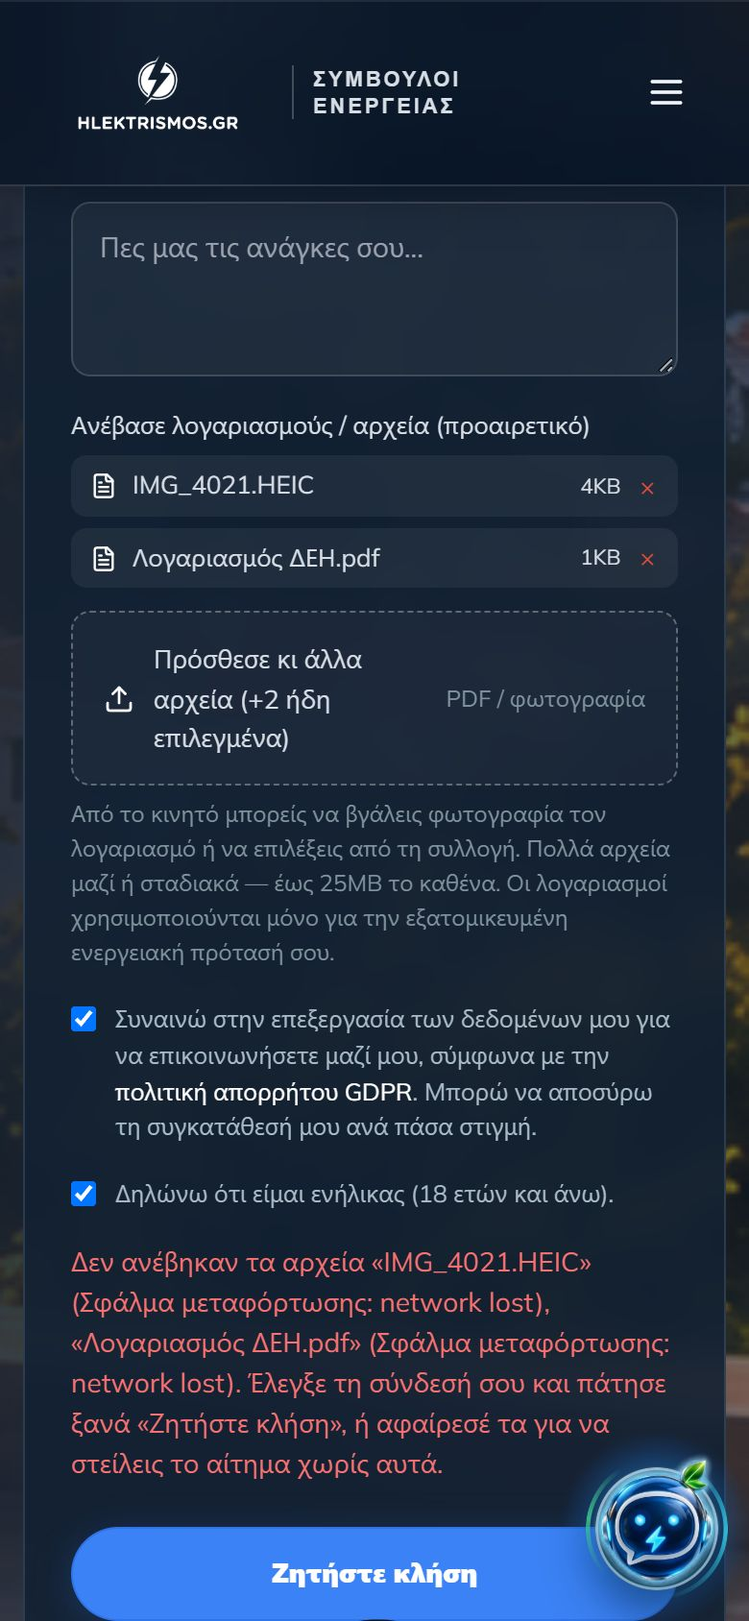
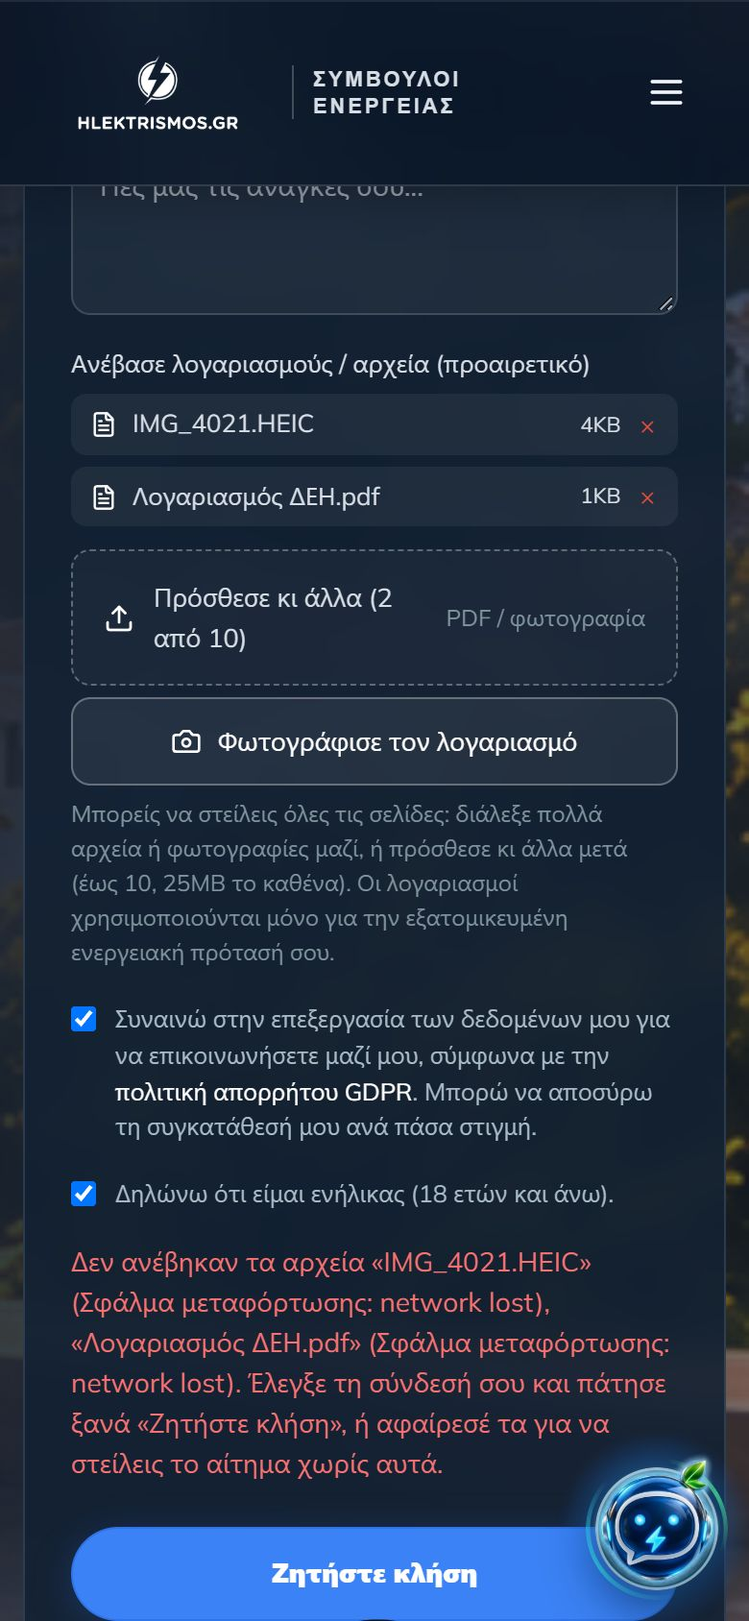
feat(crm): website form files visible on the lead and in case documents; camera + multi-file on the form
- The form stored files in leads.attached_files, which the CRM never read
- Lead details: «Αρχεία από τη φόρμα» with open links (private bucket, signed)
- Case → Έγγραφα: «Αρχεία που έστειλε ο πελάτης», file each under a document
  type without re-upload (case_documents.file_url = hlektrismos_docs/<path>)
- Form: separate camera button on phones, clearer multi-select wording, max 10 files
- UI suite +5 checks (104/104), phone check 20/20, unit +2

diff --git a/src/components/documents/CaseDocuments.tsx b/src/components/documents/CaseDocuments.tsx
@@ -1,13 +1,16 @@
 /* Case documents — "what is this file?" comes FIRST.
    Every upload (file or camera) starts by choosing the document type from the Greek energy-provider catalog
    (lib/documents.ts); only then is the file chosen. A checklist shows the typical documents for this case and
-   what is still missing. Uses the existing upload/insert/verify API; no schema change. */
+   what is still missing. Uses the existing upload/insert/verify API; no schema change.
+   Files the customer attached on the website form are listed too and can be filed under a type without re-upload. */
 
 import { useCallback, useEffect, useMemo, useRef, useState } from 'react';
-import { Camera, Check, FileText, FolderOpen, Plus, Upload, X } from 'lucide-react';
+import { Camera, Check, FileText, FolderOpen, Globe, Plus, Upload, X } from 'lucide-react';
 import { useAuth } from '@/lib/auth';
 import { can, DOC_STATUSES } from '@/lib/roles';
-import { addDocument, fetchDocuments, getDocumentUrl, setDocumentStatus, uploadDocumentFile } from '@/lib/api';
+import { addDocument, fetchDocuments, getDocumentUrl, getLeadFileUrl, setDocumentStatus, uploadDocumentFile } from '@/lib/api';
+import { fileSizeText, leadFileRef, unfiledLeadFiles } from '@/lib/lead-files';
+import type { LeadFile } from '@/lib/lead-files';
 import type { Case, CaseDocument } from '@/lib/api';
 import { buildChecklist, docLabel, DOC_GROUP_LABEL, uploadableDocTypes } from '@/lib/documents';
 import type { DocGroup } from '@/lib/documents';
@@ -21,13 +24,14 @@ const MAX_MB = 15;
 const STATUS_TONE: Record<string, 'green' | 'amber' | 'red' | 'gray'> = { verified: 'green', received: 'amber', rejected: 'red', missing: 'gray' };
 const STATUS_TEXT: Record<string, string> = { verified: 'Ελέγχθηκε', received: 'Παραλήφθηκε', rejected: 'Απορρίφθηκε', missing: 'Λείπει' };
 
-export default function CaseDocuments({ c, onChanged }: { c: Case; onChanged?: () => void }) {
+export default function CaseDocuments({ c, onChanged, leadFiles = [] }: { c: Case; onChanged?: () => void; leadFiles?: LeadFile[] }) {
   const { role } = useAuth();
   const { toast } = useToast();
   const [items, setItems] = useState<CaseDocument[]>([]);
   const [loading, setLoading] = useState(true);
   const [urls, setUrls] = useState<Record<string, string>>({});
-  const [picker, setPicker] = useState<{ open: boolean; type: string; note: string }>({ open: false, type: '', note: '' });
+  const [picker, setPicker] = useState<{ open: boolean; type: string; note: string; fromLead?: LeadFile }>({ open: false, type: '', note: '' });
+  const [leadUrls, setLeadUrls] = useState<Record<string, string>>({});
   const [busy, setBusy] = useState(false);
   const [captureOpen, setCaptureOpen] = useState(false);
   const fileRef = useRef<HTMLInputElement>(null);
@@ -47,10 +51,21 @@ export default function CaseDocuments({ c, onChanged }: { c: Case; onChanged?: (
   }, [c.id]);
   useEffect(() => { void load(); }, [load]);
 
+  const unfiled = useMemo(() => unfiledLeadFiles(leadFiles, items), [leadFiles, items]);
+  useEffect(() => {
+    let alive = true;
+    void (async () => {
+      const r: Record<string, string> = {};
+      for (const f of leadFiles) { const u = await getLeadFileUrl(f.path); if (u) r[f.path] = u; }
+      if (alive) setLeadUrls(r);
+    })();
+    return () => { alive = false; };
+  }, [leadFiles]);
+
   const checklist = useMemo(() => buildChecklist(c, items), [c, items]);
   const missingRequired = checklist.filter(i => i.required && (i.status === 'missing' || i.status === 'rejected')).length;
 
-  const openPicker = (type = '') => setPicker({ open: true, type, note: '' });
+  const openPicker = (type = '', fromLead?: LeadFile) => setPicker({ open: true, type, note: '', fromLead });
   const closePicker = () => { if (!busy) setPicker(p => ({ ...p, open: false })); };
 
   const save = async (file: File) => {
@@ -64,6 +79,20 @@ export default function CaseDocuments({ c, onChanged }: { c: Case; onChanged?: (
     setBusy(false);
     if (!row) { toast('Το έγγραφο δεν αποθηκεύτηκε. Δοκιμάστε ξανά.', 'bad'); return; }
     toast(`Αποθηκεύτηκε: ${docLabel(picker.type)}`, 'ok');
+    setPicker({ open: false, type: '', note: '' });
+    void load();
+    onChanged?.();
+  };
+
+  // File a website attachment under a type: a new case document pointing at the same stored file.
+  const fileLeadAttachment = async () => {
+    const f = picker.fromLead;
+    if (!f || !picker.type) return;
+    setBusy(true);
+    const row = await addDocument(c.id, { category: picker.type, file_name: f.name, file_url: leadFileRef(f.path), mime_type: f.type || undefined, size: f.size || undefined, description: picker.note || 'Από τη φόρμα της ιστοσελίδας' });
+    setBusy(false);
+    if (!row) { toast('Το έγγραφο δεν καταχωρήθηκε. Δοκιμάστε ξανά.', 'bad'); return; }
+    toast(`Καταχωρήθηκε: ${docLabel(picker.type)}`, 'ok');
     setPicker({ open: false, type: '', note: '' });
     void load();
     onChanged?.();
@@ -100,8 +129,37 @@ export default function CaseDocuments({ c, onChanged }: { c: Case; onChanged?: (
             </li>
           ))}
         </ul>
+        {unfiled.length > 0 && (
+          <p className="text-[13px] mt-3 rounded-lg px-3 py-2 bg-brand-50 text-brand-700">
+            Ο πελάτης έστειλε {unfiled.length === 1 ? '1 αρχείο' : `${unfiled.length} αρχεία`} από την ιστοσελίδα — δείτε τα παρακάτω και καταχωρήστε τα στον σωστό τύπο.
+          </p>
+        )}
         <p className="text-xs text-ink/50 mt-3">Ενδεικτική λίστα για παρόχους ενέργειας στην Ελλάδα. Τα ακριβή δικαιολογητικά διαφέρουν ανά πάροχο — επιβεβαιώστε με την αίτηση του παρόχου.</p>
       </Card>
+
+      {leadFiles.length > 0 && (
+        <Card>
+          <CardHeader micro="Από την ιστοσελίδα" title="Αρχεία που έστειλε ο πελάτης"
+            action={<Pill tone={unfiled.length ? 'amber' : 'green'}>{unfiled.length ? `Προς καταχώρηση ${unfiled.length}` : 'Όλα καταχωρήθηκαν'}</Pill>} />
+          <div className="space-y-2">
+            {leadFiles.map(f => {
+              const pending = unfiled.includes(f);
+              return (
+                <div key={f.path} className="flex items-center gap-3 p-3 rounded-xl border border-line bg-white flex-wrap" data-lead-file={f.name}>
+                  <span className="w-8 h-8 rounded-lg bg-brand-50 flex items-center justify-center shrink-0"><Globe className="w-4 h-4 text-brand-600" /></span>
+                  <div className="flex-1 min-w-[180px]">
+                    <div className="text-[14px] font-medium text-ink truncate">{f.name}</div>
+                    <div className="text-xs text-ink/50">{[fileSizeText(f.size), pending ? 'Χωρίς τύπο εγγράφου' : 'Καταχωρήθηκε ως έγγραφο'].filter(Boolean).join(' · ')}</div>
+                    {leadUrls[f.path] ? <a href={leadUrls[f.path]} target="_blank" rel="noreferrer" className="text-xs text-brand-600 hover:underline">Άνοιγμα αρχείου ↗</a>
+                      : <span className="text-xs text-ink/40">Ο σύνδεσμος δεν είναι διαθέσιμος</span>}
+                  </div>
+                  {pending && canAdd && <Btn variant="outline" onClick={() => openPicker('', f)}>Καταχώρηση ως…</Btn>}
+                </div>
+              );
+            })}
+          </div>
+        </Card>
+      )}
 
       <Card>
         <CardHeader micro="Αρχεία" title="Έγγραφα"
@@ -125,7 +183,7 @@ export default function CaseDocuments({ c, onChanged }: { c: Case; onChanged?: (
         </div>
       </Card>
 
-      <Modal open={picker.open} onClose={closePicker} title="Τι έγγραφο ανεβάζετε;" micro="Βήμα 1 από 2" wide>
+      <Modal open={picker.open} onClose={closePicker} title={picker.fromLead ? `Τι έγγραφο είναι το «${picker.fromLead.name}»;` : 'Τι έγγραφο ανεβάζετε;'} micro={picker.fromLead ? 'Αρχείο από την ιστοσελίδα' : 'Βήμα 1 από 2'} wide>
         <div className="space-y-4 max-h-[52vh] overflow-y-auto pr-1" role="radiogroup" aria-label="Τύπος εγγράφου">
           {groups.map(([g, types]) => (
             <div key={g}>
@@ -145,6 +203,14 @@ export default function CaseDocuments({ c, onChanged }: { c: Case; onChanged?: (
         </div>
         <input className="field mt-4" value={picker.note} onChange={e => setPicker(p => ({ ...p, note: e.target.value }))}
           placeholder={picker.type === 'other' ? 'Τι είναι το έγγραφο; (απαιτείται)' : 'Σχόλιο (προαιρετικό)'} aria-label="Σχόλιο εγγράφου" />
+        {picker.fromLead ? (
+          <div className="mt-4 flex items-center justify-end gap-2 flex-wrap">
+            <Btn variant="outline" disabled={busy} onClick={closePicker}><X className="w-3.5 h-3.5" /> Άκυρο</Btn>
+            <Btn disabled={!picker.type || busy || (picker.type === 'other' && !picker.note.trim())} onClick={() => void fileLeadAttachment()}>
+              {busy ? <Spinner /> : <Check className="w-3.5 h-3.5" />} Καταχώρηση
+            </Btn>
+          </div>
+        ) : (
         <div className="mt-4 flex items-center justify-between gap-2 flex-wrap">
           <span className="text-xs text-ink/50">Βήμα 2: επιλέξτε αρχείο (PDF ή εικόνα, έως {MAX_MB} MB) ή φωτογραφίστε.</span>
           <div className="flex gap-2">
@@ -157,6 +223,7 @@ export default function CaseDocuments({ c, onChanged }: { c: Case; onChanged?: (
             </Btn>
           </div>
         </div>
+        )}
         <input ref={fileRef} type="file" accept={ACCEPT} className="hidden"
           onChange={e => { const f = e.target.files?.[0]; e.target.value = ''; if (f) void save(f); }} />
       </Modal>

diff --git a/src/pages/LandingPage.tsx b/src/pages/LandingPage.tsx
@@ -1,10 +1,10 @@
 import { useState, useEffect, useRef, FormEvent, ChangeEvent } from 'react';
 import {
   ArrowRight, Phone, Mail, Home, FileText, Upload, X, Menu,
-  Lock,
+  Lock, Camera,
 } from 'lucide-react';
 import { supabase } from '@/lib/supabase';
-import { classifyUpload, prepareForUpload, PUBLIC_FORM_ACCEPT, PUBLIC_FORM_KINDS } from '@/lib/upload-files';
+import { classifyUpload, MAX_FORM_FILES, prepareForUpload, PUBLIC_FORM_ACCEPT, PUBLIC_FORM_KINDS } from '@/lib/upload-files';
 import { useLenis, scrollToTarget } from '@/hooks/useLenis';
 import LegalLinks from '@/components/LegalLinks';
 
@@ -489,11 +489,16 @@ export default function LandingPage() {
     // keep the valid files and name the ones that were not added.
     const picked = Array.from(files);
     const errors = picked.map((f) => classifyUpload(f, PUBLIC_FORM_KINDS)).filter((c) => !c.ok).map((c) => c.error);
-    const ok = picked.filter((f) => classifyUpload(f, PUBLIC_FORM_KINDS).ok);
+    const valid = picked.filter((f) => classifyUpload(f, PUBLIC_FORM_KINDS).ok);
+    const room = Math.max(0, MAX_FORM_FILES - form.billFiles.length);
+    const ok = valid.slice(0, room);
+    if (valid.length > room) errors.push(`Έως ${MAX_FORM_FILES} αρχεία ανά αίτημα — ${valid.length - room === 1 ? 'ένα δεν προστέθηκε' : `${valid.length - room} δεν προστέθηκαν`}.`);
     setFormError(errors.join(' '));
     if (ok.length) setForm((p) => ({ ...p, billFiles: [...p.billFiles, ...ok] }));
     e.target.value = '';
   };
+
+  const hasCamera = typeof window !== 'undefined' && window.matchMedia?.('(pointer: coarse)').matches;
 
   const removeBillFile = (i: number) => setForm((p) => ({ ...p, billFiles: p.billFiles.filter((_, idx) => idx !== i) }));
 
@@ -807,11 +812,21 @@ export default function LandingPage() {
                       >
                         <Upload size={16} style={{ color: '#fff', flexShrink: 0 }} />
                         <span style={{ flex: 1 }}>
-                          {form.billFiles.length === 0 ? 'Κάνε κλικ και επίλεξε αρχεία' : `Πρόσθεσε κι άλλα αρχεία (+${form.billFiles.length} ήδη επιλεγμένα)`}
+                          {form.billFiles.length === 0 ? 'Επίλεξε αρχεία ή φωτογραφίες — πολλά μαζί' : `Πρόσθεσε κι άλλα (${form.billFiles.length} από ${MAX_FORM_FILES})`}
                         </span>
                         <span style={{ fontSize: 12, color: '#7f939c', flexShrink: 0 }}>PDF / φωτογραφία</span>
                       </label>
-                      <span style={{ fontSize: 12, color: '#7f939c' }}>Από το κινητό μπορείς να βγάλεις φωτογραφία τον λογαριασμό ή να επιλέξεις από τη συλλογή. Πολλά αρχεία μαζί ή σταδιακά — έως 25MB το καθένα. Οι λογαριασμοί χρησιμοποιούνται μόνο για την εξατομικευμένη ενεργειακή πρότασή σου.</span>
+                      {hasCamera && (
+                        <>
+                          <input id="lead-camera-input" type="file" accept="image/*" capture="environment" onChange={handleBillChange} style={{ position: 'absolute', opacity: 0, width: 1, height: 1, overflow: 'hidden', clipPath: 'inset(50%)' }} />
+                          <label htmlFor="lead-camera-input" role="button" tabIndex={0}
+                            onKeyDown={(e) => { if (e.key === 'Enter' || e.key === ' ') { e.preventDefault(); document.getElementById('lead-camera-input')?.click(); } }}
+                            style={{ display: 'flex', alignItems: 'center', justifyContent: 'center', gap: 8, padding: '12px 16px', borderRadius: 10, border: '1px solid rgba(255,255,255,.3)', background: 'rgba(255,255,255,.07)', cursor: 'pointer', fontSize: 13.5, color: '#fff' }}>
+                            <Camera size={16} aria-hidden="true" /> Φωτογράφισε τον λογαριασμό
+                          </label>
+                        </>
+                      )}
+                      <span style={{ fontSize: 12, color: '#7f939c' }}>Μπορείς να στείλεις όλες τις σελίδες: διάλεξε πολλά αρχεία ή φωτογραφίες μαζί, ή πρόσθεσε κι άλλα μετά (έως {MAX_FORM_FILES}, 25MB το καθένα). Οι λογαριασμοί χρησιμοποιούνται μόνο για την εξατομικευμένη ενεργειακή πρότασή σου.</span>
                     </div>
                     <label style={{ display: 'flex', gap: 10, alignItems: 'flex-start', fontSize: 12.5, lineHeight: 1.5, color: '#a9bcc6' }}>
                       <input required type="checkbox" checked={form.consent} onChange={(e) => update('consent', e.target.checked)} style={{ marginTop: 3, flex: 'none' }} />

diff --git a/src/components/leads/LeadDetail.tsx b/src/components/leads/LeadDetail.tsx
@@ -2,12 +2,13 @@
    Uses ONLY existing lead operations: updateLeadStage, convertLeadToCase, updateLead (via the page's edit form).
    Status changes are audited with the existing logAudit helper. Stored status values are never rewritten for display. */
 
-import { useCallback, useEffect, useState } from 'react';
-import { ArrowLeft, Briefcase, Clock, Mail, MapPin, Pencil, Phone, Sparkles } from 'lucide-react';
+import { useCallback, useEffect, useMemo, useState } from 'react';
+import { ArrowLeft, Briefcase, Clock, FileText, Mail, MapPin, Pencil, Phone, Sparkles } from 'lucide-react';
 import { useAuth } from '@/lib/auth';
 import { useNav } from '@/lib/nav';
 import { can, LEAD_STATUSES, leadSourceInfo, SERVICES } from '@/lib/roles';
-import { convertLeadToCase, fetchEntityActivity, fetchLead, logAudit, updateLeadStage } from '@/lib/api';
+import { convertLeadToCase, fetchEntityActivity, fetchLead, getLeadFileUrl, logAudit, updateLeadStage } from '@/lib/api';
+import { fileSizeText, leadFiles } from '@/lib/lead-files';
 import type { ActivityLogRow, Lead } from '@/lib/api';
 import { leadStatusDisplay } from '@/lib/lead-status';
 import { leadNextAction } from '@/lib/lead-next';
@@ -33,6 +34,19 @@ export default function LeadDetail({ leadId, version, onEdit }: { leadId: string
     setActivity(a);
   }, [leadId]);
   useEffect(() => { void load(); }, [load, version]);
+
+  // Files the visitor attached on the website form (private bucket; links are short-lived).
+  const files = useMemo(() => leadFiles(lead?.attached_files), [lead]);
+  const [fileUrls, setFileUrls] = useState<Record<string, string>>({});
+  useEffect(() => {
+    let alive = true;
+    void (async () => {
+      const r: Record<string, string> = {};
+      for (const f of files) { const u = await getLeadFileUrl(f.path); if (u) r[f.path] = u; }
+      if (alive) setFileUrls(r);
+    })();
+    return () => { alive = false; };
+  }, [files]);
 
   if (lead === undefined) return <div className="atx-page"><div className="atx-panel">{[0, 1, 2].map(i => <div key={i} className="atx-skeleton" />)}</div></div>;
   if (lead === null) {
@@ -141,6 +155,29 @@ export default function LeadDetail({ leadId, version, onEdit }: { leadId: string
               ))}
             </dl>
           </div>
+
+          {files.length > 0 && (
+            <div className="atx-panel" style={{ padding: 20 }} aria-label="Αρχεία από τη φόρμα">
+              <h2 className="atx-section-title mb-1">Αρχεία από τη φόρμα ({files.length})</h2>
+              <p className="text-[13px] text-[var(--atx-muted)] mb-3">
+                {lead.converted_case_id ? 'Καταχωρήστε τα ως δικαιολογητικά στο Case → Έγγραφα.' : 'Μετά τη μετατροπή σε Case θα εμφανίζονται στα Έγγραφα, για καταχώρηση ανά τύπο.'}
+              </p>
+              <ul className="m-0 p-0 list-none space-y-2">
+                {files.map(f => (
+                  <li key={f.path} className="flex items-center gap-3 text-[14px]">
+                    <span className="atx-icon" style={{ width: 30, height: 30 }} aria-hidden="true"><FileText size={14} /></span>
+                    <span className="flex-1 min-w-0">
+                      <span className="block font-medium truncate">{f.name}</span>
+                      <span className="block text-[12.5px] text-[var(--atx-muted)]">{fileSizeText(f.size) || '—'}</span>
+                    </span>
+                    {fileUrls[f.path]
+                      ? <a className="atx-btn atx-btn-quiet" href={fileUrls[f.path]} target="_blank" rel="noreferrer">Άνοιγμα</a>
+                      : <span className="text-[12.5px] text-[var(--atx-faint)]">Μη διαθέσιμο</span>}
+                  </li>
+                ))}
+              </ul>
+            </div>
+          )}
 
           <div className="atx-panel" style={{ padding: 20 }}>
             <h2 className="atx-section-title mb-3">Ιστορικό</h2>

diff --git a/src/lib/lead-files.ts b/src/lib/lead-files.ts
@@ -1,0 +1,31 @@
+/* Files a visitor attached on the public contact form. The form stores them in the private `hlektrismos_docs`
+   bucket and lists them on the lead (`leads.attached_files`); the CRM never showed them, so they looked lost.
+   A case document that points to one of these files keeps the bucket in its reference (`hlektrismos_docs/<path>`),
+   so filing it under a document type needs no copy or re-upload. Pure helpers, unit-tested. */
+
+export interface LeadFile { path: string; name: string; type: string; size: number }
+
+export const LEAD_FILES_BUCKET = 'hlektrismos_docs';
+const PREFIX = `${LEAD_FILES_BUCKET}/`;
+
+/** Reference stored in case_documents.file_url for a website file. */
+export const leadFileRef = (path: string) => PREFIX + path;
+/** The website-bucket path, or null when the reference belongs to the normal case-documents bucket. */
+export const leadFilePath = (fileUrl: string | null | undefined) => (fileUrl && fileUrl.startsWith(PREFIX) ? fileUrl.slice(PREFIX.length) : null);
+
+/** Valid entries only: the column is free-form jsonb written by the public form. */
+export function leadFiles(raw: unknown): LeadFile[] {
+  if (!Array.isArray(raw)) return [];
+  return raw
+    .filter((f): f is Record<string, unknown> => !!f && typeof f === 'object' && typeof (f as { path?: unknown }).path === 'string')
+    .map(f => ({ path: String(f.path), name: String(f.name ?? String(f.path).split('/').pop()), type: String(f.type ?? ''), size: Number(f.size) || 0 }));
+}
+
+/** Website files not yet filed as a case document. */
+export function unfiledLeadFiles(files: LeadFile[], docs: { file_url: string | null }[]): LeadFile[] {
+  const filed = new Set(docs.map(d => leadFilePath(d.file_url)).filter(Boolean));
+  return files.filter(f => !filed.has(f.path));
+}
+
+export const fileSizeText = (bytes: number) =>
+  bytes <= 0 ? '' : bytes < 1024 * 1024 ? `${Math.max(1, Math.round(bytes / 1024))} KB` : `${(bytes / 1024 / 1024).toFixed(1)} MB`;

diff --git a/src/components/app/CaseDetailPage.tsx b/src/components/app/CaseDetailPage.tsx
@@ -1,7 +1,8 @@
-import { useCallback, useEffect, useState } from 'react';
+import { useCallback, useEffect, useMemo, useState } from 'react';
 import { useAuth } from '@/lib/auth';
 import { useNav } from '@/lib/nav';
 import CaseDocuments from '@/components/documents/CaseDocuments';
+import { leadFiles as toLeadFiles } from '@/lib/lead-files';
 import { buildChecklist, docLabel } from '@/lib/documents';
 import { stageText } from '@/lib/case-flow';
 import { CaseNextStepCard, CaseProgress, HandoverDialog, StageChangeDialog } from '@/components/cases/CaseOverview';
@@ -575,6 +576,7 @@ export default function CaseDetailPage({ caseId }: { caseId: string }) {
   const { go } = useNav();
   const [c, setC] = useState<Case | null>(null);
   const [lead, setLead] = useState<Lead | null>(null);
+  const websiteFiles = useMemo(() => toLeadFiles(lead?.attached_files), [lead]);
   const [tab, setTab] = useState<'timeline' | 'followups' | 'docs' | 'visits' | 'offers' | 'signatures' | 'backoffice'>('timeline');
   const [stagePending, setStagePending] = useState<Stage | null>(null);
   const [handoverOpen, setHandoverOpen] = useState(false);
@@ -786,7 +788,7 @@ export default function CaseDetailPage({ caseId }: { caseId: string }) {
 
       {tab === 'timeline' && <TimelineTab caseId={c.id} load={reload} />}
       {tab === 'followups' && <FollowUpsTab caseId={c.id} load={reload} />}
-      {tab === 'docs' && <CaseDocuments c={c} onChanged={reload} />}
+      {tab === 'docs' && <CaseDocuments c={c} onChanged={reload} leadFiles={websiteFiles} />}
       {tab === 'visits' && <VisitsTab caseId={c.id} />}
       {tab === 'offers' && <OffersTab caseId={c.id} />}
       {tab === 'signatures' && <SignaturesTab caseId={c.id} />}

diff --git a/src/lib/api.ts b/src/lib/api.ts
@@ -3,6 +3,7 @@ import { applyCanonicalLabels, loadCatalog, resolveProductId, resolveProviderId 
 import { ROLES } from './roles';
 import type { Role, Stage } from './roles';
 import type { MapCoordinate } from './maps/types';
+import { LEAD_FILES_BUCKET, leadFilePath } from './lead-files';
 
 export type Customer = {
   id: string;
@@ -196,6 +197,8 @@ export type Lead = {
   created_at: string;
   created_by?: { full_name: string } | null;
   assigned_to?: { full_name: string } | null;
+  /** Files attached on the public contact form (jsonb; see lib/lead-files). */
+  attached_files?: unknown;
 };
 
 function logError(method: string, err: unknown) {
@@ -691,7 +694,18 @@ export async function uploadDocumentFile(file: File): Promise<{ path: string; na
 export async function getDocumentUrl(path: string): Promise<string | null> {
   if (!supabase || !path) return null;
   if (/^https?:\/\//i.test(path)) return path;
+  // Website files filed as case documents stay in the contact-form bucket (see lib/lead-files).
+  const websitePath = leadFilePath(path);
+  if (websitePath) return getLeadFileUrl(websitePath);
   const { data } = await supabase.storage.from('client_documents').createSignedUrl(path, 3600);
+  return data?.signedUrl ?? null;
+}
+
+/* Short-lived link to a file a visitor attached on the public form (private bucket; staff-only read policy). */
+export async function getLeadFileUrl(path: string): Promise<string | null> {
+  if (!supabase || !path) return null;
+  const { data, error } = await supabase.storage.from(LEAD_FILES_BUCKET).createSignedUrl(path, 3600);
+  if (error) { logError('getLeadFileUrl', error); return null; }
   return data?.signedUrl ?? null;
 }
 

diff --git a/src/lib/upload-files.ts b/src/lib/upload-files.ts
@@ -5,6 +5,8 @@
    and open on any staff computer. If the browser cannot decode a photo, the original is uploaded unchanged. */
 
 export const MAX_UPLOAD_BYTES = 25 * 1024 * 1024;
+/** Files per public-form request (all pages of a bill, ID front/back, etc.). */
+export const MAX_FORM_FILES = 10;
 
 const BY_EXT: Record<string, { type: string; kind: 'pdf' | 'image' | 'sheet' }> = {
   pdf: { type: 'application/pdf', kind: 'pdf' },
